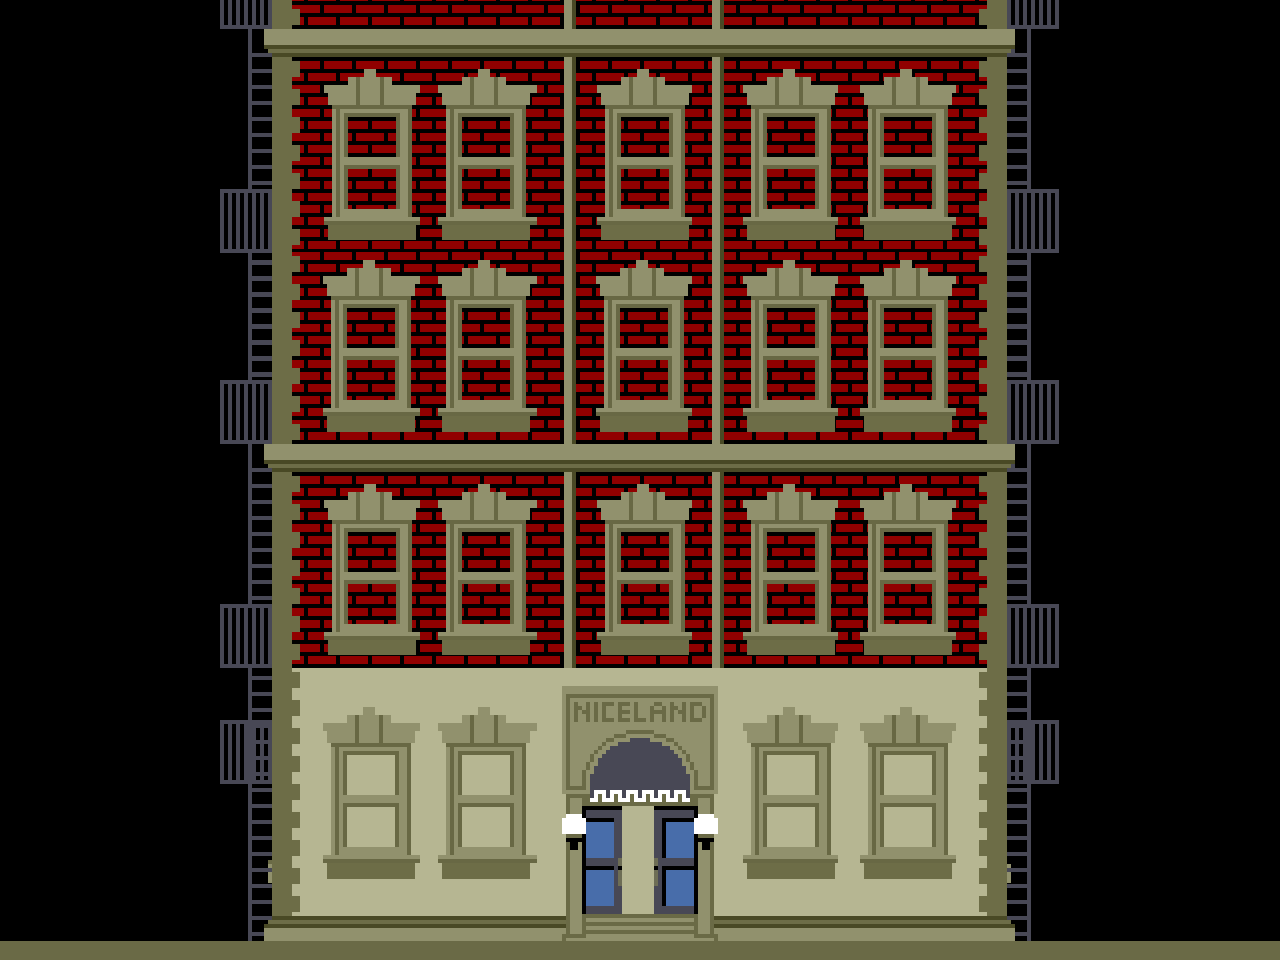
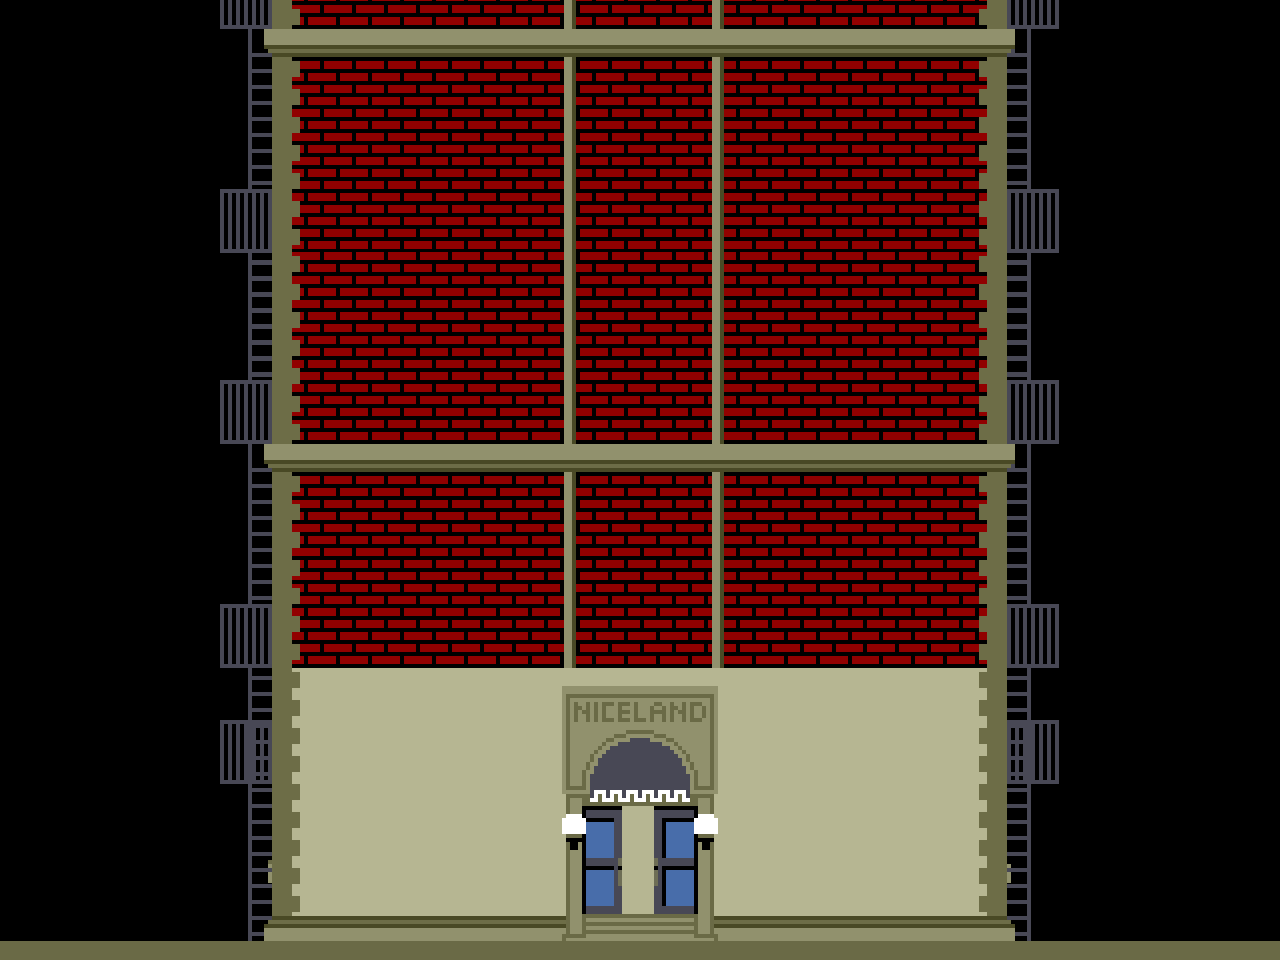
feat: 1st attempt of left/right movement

diff --git a/src/main/java/com/github/fixitfelixjr/entities/Player.java b/src/main/java/com/github/fixitfelixjr/entities/Player.java
@@ -23,8 +23,8 @@ public class Player extends DynamicSpriteEntity implements KeyListener, SceneBor
     public static final Position INITIAL_POSITION = Position.PLAYER_INITIAL_POSITION;
 
     private static final int MAX_HEALTH = 10;
-    private static final double MOVE_SPEED = 7.5;
-    private static final double JUMP_STRENGTH = 20;
+    private static final double MOVE_SPEED = 7.5; // todo remove if unused
+    private static final double JUMP_STRENGTH = 20; // todo remove if unused
     public static final double GRAVITY_CONSTANT = 0.5;
 
     private int health;
@@ -54,34 +54,66 @@ public class Player extends DynamicSpriteEntity implements KeyListener, SceneBor
         }
     }
 
+    public void moveUp()
+    {
+        WindowFrame window = this.findNearestWindow(Direction.UP);
+        if (window != null) {
+            setAnchorLocation(new Coordinate2D(window.getAnchorLocation().getX(), window.getAnchorLocation().getY() + 50));
+        }
+        System.out.println("moved up");
+    }
+
+    public void moveDown()
+    {
+        WindowFrame window = this.findNearestWindow(Direction.DOWN);
+        if (window != null) {
+            setAnchorLocation(new Coordinate2D(window.getAnchorLocation().getX(), window.getAnchorLocation().getY() + 50));
+        }
+        System.out.println("moved down");
+    }
+
+    public void moveLeft()
+    {
+        WindowFrame window = this.findNearestWindow(Direction.LEFT);
+        if (window != null) {
+            setAnchorLocation(new Coordinate2D(window.getAnchorLocation().getX(), getAnchorLocation().getY()));
+        }
+        System.out.println("moved left");
+    }
+
+    public void moveRight()
+    {
+        WindowFrame window = this.findNearestWindow(Direction.RIGHT);
+        if (window != null) {
+            setAnchorLocation(new Coordinate2D(window.getAnchorLocation().getX(), getAnchorLocation().getY()));
+        }
+    }
+
     @Override
     public void onPressedKeysChange(Set<KeyCode> pressedKeys)
     {
-        boolean moveLeft = pressedKeys.contains(KeyCode.LEFT) || pressedKeys.contains(KeyCode.A);
-        boolean moveRight = pressedKeys.contains(KeyCode.RIGHT) || pressedKeys.contains(KeyCode.D);
-        boolean moveDown = pressedKeys.contains(KeyCode.DOWN) || pressedKeys.contains(KeyCode.S);
-        boolean jump = pressedKeys.contains(KeyCode.UP) || pressedKeys.contains(KeyCode.W) || pressedKeys.contains(KeyCode.SPACE);
-        boolean isOnWindow = findNearestWindow() != null;
+        boolean left = pressedKeys.contains(KeyCode.LEFT);
+        boolean right = pressedKeys.contains(KeyCode.RIGHT);
+        boolean up = pressedKeys.contains(KeyCode.UP);
+        boolean down = pressedKeys.contains(KeyCode.DOWN);
 
-        System.out.println("Player pressed keys: " + pressedKeys.stream().findFirst().orElse(null));
-        if (lastPressedKey != pressedKeys.stream().findFirst().orElse(null)) {
-            lastPressedKey = null;
+        // System.out.println("Player pressed keys: " + pressedKeys.stream().findFirst().orElse(null));
+        if (this.lastPressedKey != pressedKeys.stream().findFirst().orElse(null)) {
+            this.lastPressedKey = null;
         }
 
-        if(jump && lastPressedKey != KeyCode.UP) {
-            lastPressedKey = KeyCode.UP;
-            WindowFrame window = findNearestWindow(Direction.UP);
-
-            if(window != null) {
-                setAnchorLocation(new Coordinate2D(window.getAnchorLocation().getX(), window.getAnchorLocation().getY() + 50));
-            }
-        }
-        else if(moveDown && lastPressedKey != KeyCode.DOWN){
+        if (up && this.lastPressedKey != KeyCode.UP) {
+            this.lastPressedKey = KeyCode.UP;
+            this.moveUp();
+        } else if (down && lastPressedKey != KeyCode.DOWN) {
             lastPressedKey = KeyCode.DOWN;
-            WindowFrame window = findNearestWindow(Direction.DOWN);
-            if(window != null) {
-                setAnchorLocation(new Coordinate2D(window.getAnchorLocation().getX(), window.getAnchorLocation().getY() + 50));
-            }
+            this.moveDown();
+        } else if (left && lastPressedKey != KeyCode.LEFT) {
+            lastPressedKey = KeyCode.LEFT;
+            this.moveLeft();
+        } else if (right && lastPressedKey != KeyCode.RIGHT) {
+            lastPressedKey = KeyCode.RIGHT;
+            this.moveRight();
         }
     }
 
@@ -112,21 +144,70 @@ public class Player extends DynamicSpriteEntity implements KeyListener, SceneBor
         List<WindowFrame> windowFrames = Building.getInstance().getWindowFrames();
         WindowFrame nearestWindow = findNearestWindow();
 
-        System.out.println("size" + windowFrames.size());
-
-
         if (direction == Direction.UP && windowFrames.indexOf(nearestWindow) + Building.WINDOWS_PER_FLOOR < windowFrames.size()) {
             int index = windowFrames.indexOf(nearestWindow) + Building.WINDOWS_PER_FLOOR;
+            System.out.println("UP INDEX: " + index);
+
+            nearestWindow = windowFrames.get(index);
+            return nearestWindow;
+
+        } else if (direction == Direction.DOWN && windowFrames.indexOf(nearestWindow) - Building.WINDOWS_PER_FLOOR > 0) {
+            int index = windowFrames.indexOf(nearestWindow) - Building.WINDOWS_PER_FLOOR;
+            System.out.println("DOWN INDEX: " + index);
+
             nearestWindow = windowFrames.get(index);
             return nearestWindow;
 
         }
-        else if(direction == Direction.DOWN && windowFrames.indexOf(nearestWindow) - Building.WINDOWS_PER_FLOOR > 0) {
-            int index = windowFrames.indexOf(nearestWindow) - Building.WINDOWS_PER_FLOOR;
-            nearestWindow = windowFrames.get(index);
+
+        else if (direction == Direction.LEFT) {
+            int index = windowFrames.indexOf(nearestWindow);
+            System.out.println("LEFT INDEX: " + index);
+
+            // Check of we niet op de begane grond zijn OF het niet het eerste raam in de rij is
+            if ((index >= Building.WINDOWS_PER_FLOOR || index % Building.WINDOWS_PER_FLOOR > 0) && nearestWindow != null) {
+                nearestWindow = windowFrames.get(index - 1);
+            } else {
+                nearestWindow = null; // Geen raam links als het het eerste raam in de rij is of op de begane grond
+            }
+
             return nearestWindow;
-        }else {
-            System.out.println("NULL?!");
+        } else if (direction == Direction.RIGHT) {
+            int index = windowFrames.indexOf(nearestWindow);
+            System.out.println("RIGHT INDEX: " + index);
+
+            // Check of we niet op de begane grond zijn OF het niet het laatste raam in de rij is
+            if ((index >= Building.WINDOWS_PER_FLOOR || index % Building.WINDOWS_PER_FLOOR < Building.WINDOWS_PER_FLOOR - 1) && nearestWindow != null) {
+                nearestWindow = windowFrames.get(index + 1);
+            } else {
+                nearestWindow = null; // Geen raam rechts als het het laatste raam in de rij is of op de begane grond
+            }
+
+            return nearestWindow;
+        }
+
+//        else if (direction == Direction.LEFT) {
+//            int index = windowFrames.indexOf(nearestWindow);
+//            if (index % Building.WINDOWS_PER_FLOOR > 0) { // Checkt of het niet het eerste raam in de rij is
+//                nearestWindow = windowFrames.get(index - 1);
+//            } else {
+//                nearestWindow = null; // Geen raam links als het het eerste raam in de rij is
+//            }
+//
+//            return nearestWindow;
+//        } else if (direction == Direction.RIGHT) {
+//            int index = windowFrames.indexOf(nearestWindow);
+//            if (index % Building.WINDOWS_PER_FLOOR < Building.WINDOWS_PER_FLOOR - 1) { // Checkt of het niet het laatste raam in de rij is
+//                nearestWindow = windowFrames.get(index + 1);
+//            } else {
+//                nearestWindow = null; // Geen raam rechts als het het laatste raam in de rij is
+//            }
+//
+//            return nearestWindow;
+//        }
+
+        else {
+            System.out.println("NO WINDOW FOUND IN DIRECTION [" + direction + "]");
             return null;
         }
     }

diff --git a/src/main/java/com/github/fixitfelixjr/entities/Building.java b/src/main/java/com/github/fixitfelixjr/entities/Building.java
@@ -1,6 +1,5 @@
 package com.github.fixitfelixjr.entities;
 
-import com.github.fixitfelixjr.enums.Position;
 import com.github.fixitfelixjr.scenes.LevelScene;
 import com.github.hanyaeger.api.Coordinate2D;
 
@@ -10,8 +9,7 @@ import java.util.List;
 public class Building
 {
 
-    //    public static final String SPRITE_IMAGE = "sprites/building.png";
-    public static final String SPRITE_IMAGE = "sprites/building2.png";
+    public static final String SPRITE_IMAGE = "backgrounds/building.png";
     public static final int FLOORS = 4;
     public static final int WINDOWS_PER_FLOOR = 5;
     public static final int MIDDLE_WINDOW_INDEX = 2;
